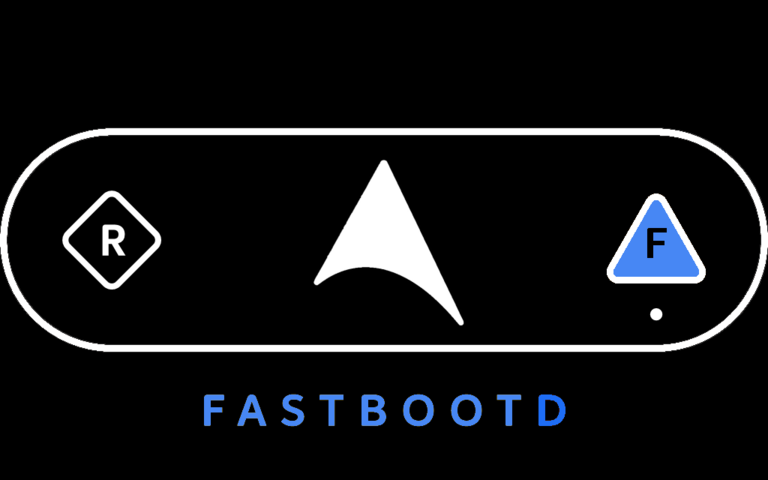
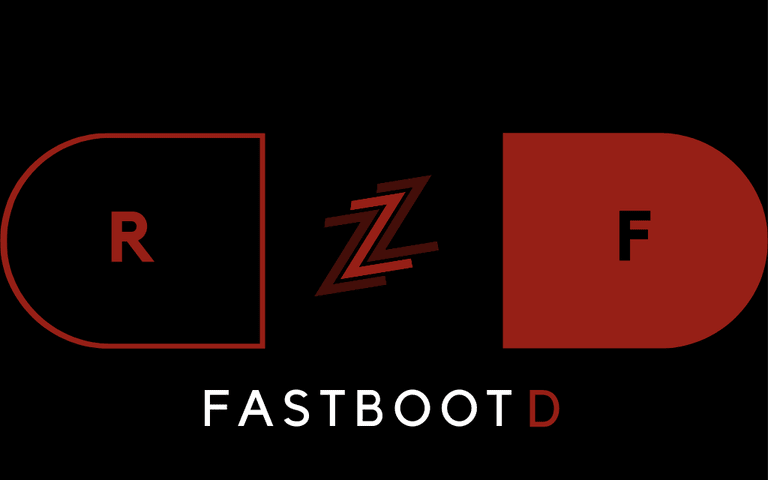
recovery: Rebrand for zephyrus

diff --git a/recovery_ui/screen_ui.cpp b/recovery_ui/screen_ui.cpp
@@ -574,17 +574,17 @@ void ScreenRecoveryUI::SetColor(UIElement e) const {
       gr_color(255, 255, 255, 255);
       break;
     case UIElement::HEADER:
-      gr_color(0, 95, 154, 255);
+      gr_color(150, 31, 22, 255);
       break;
     case UIElement::MENU:
       gr_color(0xd8, 0xd8, 0xd8, 255);
       break;
     case UIElement::MENU_SEL_BG:
     case UIElement::SCROLLBAR:
-      gr_color(0, 95, 154, 255);
+      gr_color(150, 31, 22, 255);
       break;
     case UIElement::MENU_SEL_BG_ACTIVE:
-      gr_color(0, 95, 154, 255);
+      gr_color(150, 31, 22, 255);
       break;
     case UIElement::MENU_SEL_FG:
       gr_color(0xd8, 0xd8, 0xd8, 255);

diff --git a/recovery.cpp b/recovery.cpp
@@ -823,7 +823,7 @@ Device::BuiltinAction start_recovery(Device* device, const std::vector<std::stri
   std::string ver_date = ver_date_match.str(1);  // Empty if no match.
 
   std::vector<std::string> title_lines = {
-    "Version " + android::base::GetProperty("ro.zephyrus.build.version", "(unknown)") +
+    "Version " + android::base::GetProperty("ro.zephyrus.version", "(unknown)") +
         " (" + ver_date + ")",
   };
   if (android::base::GetBoolProperty("ro.build.ab_update", false)) {
